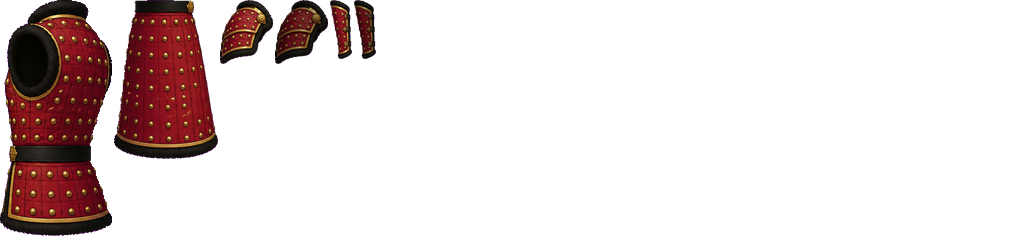
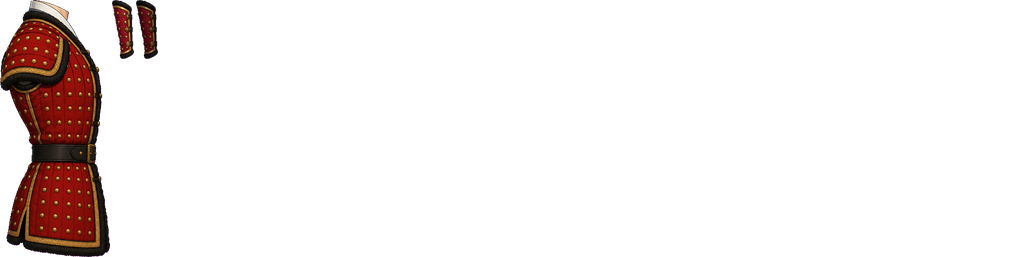
갑옷을 무명 몸에 맞게 다시 그림: 갑옷 입은 몸통으로 통째 교체
Claude-Session: https://claude.ai/code/session_01VjuNGxx5wxmvTcPiCBoU6q

Changed region(s): [[0.0, 0.0, 0.375, 1.0]]

diff --git a/cheonha.html b/cheonha.html
@@ -2405,28 +2405,22 @@ const Rig = (() => {
       },
     },
   };
-  /* 갑옷: 몸과 따로 그린 겉옷 조각. 장착한 갑옷 아이템에 따라 덧입힌다 (없으면 기본 저고리) */
+  /* 갑옷: 몸과 따로 그린 조각. 몸통은 갑옷 입은 몸통으로 통째로 바꾸고, 팔에는 팔찌를 덧입힌다 (없으면 기본 저고리) */
   const ARMOR = {
     chalgap: {
       src: 'img/rig/armor_chalgap.png',
       parts: {
-        vest: { r: [0, 0, 107, 207], pv: [50.2, 152.1] },
-        skirt: { r: [109, 0, 109, 164], pv: [59.8, 7.9] },
-        pauF: { r: [220, 0, 61, 63], pv: [28.8, 16.1] },
-        pauB: { r: [283, 0, 61, 63], pv: [28.8, 16.1] },
-        brcF: { r: [346, 0, 30, 60], pv: [19, 2.4] },
-        brcB: { r: [378, 0, 30, 60], pv: [19, 2.4] },
+        torso: { r: [0, 0, 98, 232], pv: [53.9, 207.9] },
+        brcF: { r: [100, 0, 30, 60], pv: [19.0, 2.4] },
+        brcB: { r: [132, 0, 30, 60], pv: [19.0, 2.4] },
       },
     },
     dujeong: {
       src: 'img/rig/armor_dujeong.png',
       parts: {
-        vest: { r: [0, 0, 112, 236], pv: [50.5, 152.0] },
-        skirt: { r: [114, 0, 104, 159], pv: [46.2, 3.7] },
-        pauF: { r: [220, 0, 53, 64], pv: [27.5, 15] },
-        pauB: { r: [275, 0, 53, 64], pv: [27.5, 15] },
-        brcF: { r: [330, 0, 22, 59], pv: [11, 2.6] },
-        brcB: { r: [354, 0, 22, 59], pv: [11, 2.6] },
+        torso: { r: [0, 0, 110, 257], pv: [56.9, 207.9] },
+        brcF: { r: [112, 0, 22, 59], pv: [11.0, 2.6] },
+        brcB: { r: [136, 0, 22, 59], pv: [11.0, 2.6] },
       },
     },
   };
@@ -2591,21 +2585,16 @@ const Rig = (() => {
       part(c, im, fa);
       if (AR) { c.save(); at(c, fa, fa.cuff); part(c, AR.im, AR.P['brc' + side]); c.restore(); }
       c.restore();
-      /* 어깨받이는 팔을 따라 반쯤만 돈다 */
-      if (AR) { c.save(); c.rotate(-ang * 0.45); part(c, AR.im, AR.P['pau' + side]); c.restore(); }
       c.restore();
     };
-    const beltX = torso.belt[0] - torso.pv[0], beltY = torso.belt[1] - torso.pv[1];
-    /* 그리는 순서: 뒷팔(몸 뒤) → 다리 → 갑옷 치마 → 머리 → 몸통 → 갑옷 몸판 → 앞팔(칼) */
+    /* 그리는 순서: 뒷팔(몸 뒤) → 다리 → 머리 → 몸통(갑옷이면 갑옷 몸통) → 앞팔(칼) */
     c.save(); c.rotate(P.lean); drawArm('B', false); c.restore();
     drawLeg('B');
     drawLeg('F');
-    if (AR) { c.save(); c.rotate(P.lean); c.translate(beltX, beltY); c.rotate(-P.lean * 0.4 + P.skirt); part(c, AR.im, AR.P.skirt); c.restore(); }
     c.save();
     c.rotate(P.lean);
     c.save(); at(c, torso, torso.neck); c.rotate(P.head); part(c, im, Pp.head); c.restore();
-    part(c, im, torso);
-    if (AR) { c.save(); c.translate(beltX, beltY); part(c, AR.im, AR.P.vest); c.restore(); }
+    if (AR) part(c, AR.im, AR.P.torso); else part(c, im, torso);
     drawArm('F', true);
     c.restore();
     c.restore();

diff --git a/index.html b/index.html
@@ -2405,28 +2405,22 @@ const Rig = (() => {
       },
     },
   };
-  /* 갑옷: 몸과 따로 그린 겉옷 조각. 장착한 갑옷 아이템에 따라 덧입힌다 (없으면 기본 저고리) */
+  /* 갑옷: 몸과 따로 그린 조각. 몸통은 갑옷 입은 몸통으로 통째로 바꾸고, 팔에는 팔찌를 덧입힌다 (없으면 기본 저고리) */
   const ARMOR = {
     chalgap: {
       src: 'img/rig/armor_chalgap.png',
       parts: {
-        vest: { r: [0, 0, 107, 207], pv: [50.2, 152.1] },
-        skirt: { r: [109, 0, 109, 164], pv: [59.8, 7.9] },
-        pauF: { r: [220, 0, 61, 63], pv: [28.8, 16.1] },
-        pauB: { r: [283, 0, 61, 63], pv: [28.8, 16.1] },
-        brcF: { r: [346, 0, 30, 60], pv: [19, 2.4] },
-        brcB: { r: [378, 0, 30, 60], pv: [19, 2.4] },
+        torso: { r: [0, 0, 98, 232], pv: [53.9, 207.9] },
+        brcF: { r: [100, 0, 30, 60], pv: [19.0, 2.4] },
+        brcB: { r: [132, 0, 30, 60], pv: [19.0, 2.4] },
       },
     },
     dujeong: {
       src: 'img/rig/armor_dujeong.png',
       parts: {
-        vest: { r: [0, 0, 112, 236], pv: [50.5, 152.0] },
-        skirt: { r: [114, 0, 104, 159], pv: [46.2, 3.7] },
-        pauF: { r: [220, 0, 53, 64], pv: [27.5, 15] },
-        pauB: { r: [275, 0, 53, 64], pv: [27.5, 15] },
-        brcF: { r: [330, 0, 22, 59], pv: [11, 2.6] },
-        brcB: { r: [354, 0, 22, 59], pv: [11, 2.6] },
+        torso: { r: [0, 0, 110, 257], pv: [56.9, 207.9] },
+        brcF: { r: [112, 0, 22, 59], pv: [11.0, 2.6] },
+        brcB: { r: [136, 0, 22, 59], pv: [11.0, 2.6] },
       },
     },
   };
@@ -2591,21 +2585,16 @@ const Rig = (() => {
       part(c, im, fa);
       if (AR) { c.save(); at(c, fa, fa.cuff); part(c, AR.im, AR.P['brc' + side]); c.restore(); }
       c.restore();
-      /* 어깨받이는 팔을 따라 반쯤만 돈다 */
-      if (AR) { c.save(); c.rotate(-ang * 0.45); part(c, AR.im, AR.P['pau' + side]); c.restore(); }
       c.restore();
     };
-    const beltX = torso.belt[0] - torso.pv[0], beltY = torso.belt[1] - torso.pv[1];
-    /* 그리는 순서: 뒷팔(몸 뒤) → 다리 → 갑옷 치마 → 머리 → 몸통 → 갑옷 몸판 → 앞팔(칼) */
+    /* 그리는 순서: 뒷팔(몸 뒤) → 다리 → 머리 → 몸통(갑옷이면 갑옷 몸통) → 앞팔(칼) */
     c.save(); c.rotate(P.lean); drawArm('B', false); c.restore();
     drawLeg('B');
     drawLeg('F');
-    if (AR) { c.save(); c.rotate(P.lean); c.translate(beltX, beltY); c.rotate(-P.lean * 0.4 + P.skirt); part(c, AR.im, AR.P.skirt); c.restore(); }
     c.save();
     c.rotate(P.lean);
     c.save(); at(c, torso, torso.neck); c.rotate(P.head); part(c, im, Pp.head); c.restore();
-    part(c, im, torso);
-    if (AR) { c.save(); c.translate(beltX, beltY); part(c, AR.im, AR.P.vest); c.restore(); }
+    if (AR) part(c, AR.im, AR.P.torso); else part(c, im, torso);
     drawArm('F', true);
     c.restore();
     c.restore();

diff --git a/src/rig.js b/src/rig.js
@@ -23,28 +23,22 @@ const Rig = (() => {
       },
     },
   };
-  /* 갑옷: 몸과 따로 그린 겉옷 조각. 장착한 갑옷 아이템에 따라 덧입힌다 (없으면 기본 저고리) */
+  /* 갑옷: 몸과 따로 그린 조각. 몸통은 갑옷 입은 몸통으로 통째로 바꾸고, 팔에는 팔찌를 덧입힌다 (없으면 기본 저고리) */
   const ARMOR = {
     chalgap: {
       src: 'img/rig/armor_chalgap.png',
       parts: {
-        vest: { r: [0, 0, 107, 207], pv: [50.2, 152.1] },
-        skirt: { r: [109, 0, 109, 164], pv: [59.8, 7.9] },
-        pauF: { r: [220, 0, 61, 63], pv: [28.8, 16.1] },
-        pauB: { r: [283, 0, 61, 63], pv: [28.8, 16.1] },
-        brcF: { r: [346, 0, 30, 60], pv: [19, 2.4] },
-        brcB: { r: [378, 0, 30, 60], pv: [19, 2.4] },
+        torso: { r: [0, 0, 98, 232], pv: [53.9, 207.9] },
+        brcF: { r: [100, 0, 30, 60], pv: [19.0, 2.4] },
+        brcB: { r: [132, 0, 30, 60], pv: [19.0, 2.4] },
       },
     },
     dujeong: {
       src: 'img/rig/armor_dujeong.png',
       parts: {
-        vest: { r: [0, 0, 112, 236], pv: [50.5, 152.0] },
-        skirt: { r: [114, 0, 104, 159], pv: [46.2, 3.7] },
-        pauF: { r: [220, 0, 53, 64], pv: [27.5, 15] },
-        pauB: { r: [275, 0, 53, 64], pv: [27.5, 15] },
-        brcF: { r: [330, 0, 22, 59], pv: [11, 2.6] },
-        brcB: { r: [354, 0, 22, 59], pv: [11, 2.6] },
+        torso: { r: [0, 0, 110, 257], pv: [56.9, 207.9] },
+        brcF: { r: [112, 0, 22, 59], pv: [11.0, 2.6] },
+        brcB: { r: [136, 0, 22, 59], pv: [11.0, 2.6] },
       },
     },
   };
@@ -209,21 +203,16 @@ const Rig = (() => {
       part(c, im, fa);
       if (AR) { c.save(); at(c, fa, fa.cuff); part(c, AR.im, AR.P['brc' + side]); c.restore(); }
       c.restore();
-      /* 어깨받이는 팔을 따라 반쯤만 돈다 */
-      if (AR) { c.save(); c.rotate(-ang * 0.45); part(c, AR.im, AR.P['pau' + side]); c.restore(); }
       c.restore();
     };
-    const beltX = torso.belt[0] - torso.pv[0], beltY = torso.belt[1] - torso.pv[1];
-    /* 그리는 순서: 뒷팔(몸 뒤) → 다리 → 갑옷 치마 → 머리 → 몸통 → 갑옷 몸판 → 앞팔(칼) */
+    /* 그리는 순서: 뒷팔(몸 뒤) → 다리 → 머리 → 몸통(갑옷이면 갑옷 몸통) → 앞팔(칼) */
     c.save(); c.rotate(P.lean); drawArm('B', false); c.restore();
     drawLeg('B');
     drawLeg('F');
-    if (AR) { c.save(); c.rotate(P.lean); c.translate(beltX, beltY); c.rotate(-P.lean * 0.4 + P.skirt); part(c, AR.im, AR.P.skirt); c.restore(); }
     c.save();
     c.rotate(P.lean);
     c.save(); at(c, torso, torso.neck); c.rotate(P.head); part(c, im, Pp.head); c.restore();
-    part(c, im, torso);
-    if (AR) { c.save(); c.translate(beltX, beltY); part(c, AR.im, AR.P.vest); c.restore(); }
+    if (AR) part(c, AR.im, AR.P.torso); else part(c, im, torso);
     drawArm('F', true);
     c.restore();
     c.restore();
